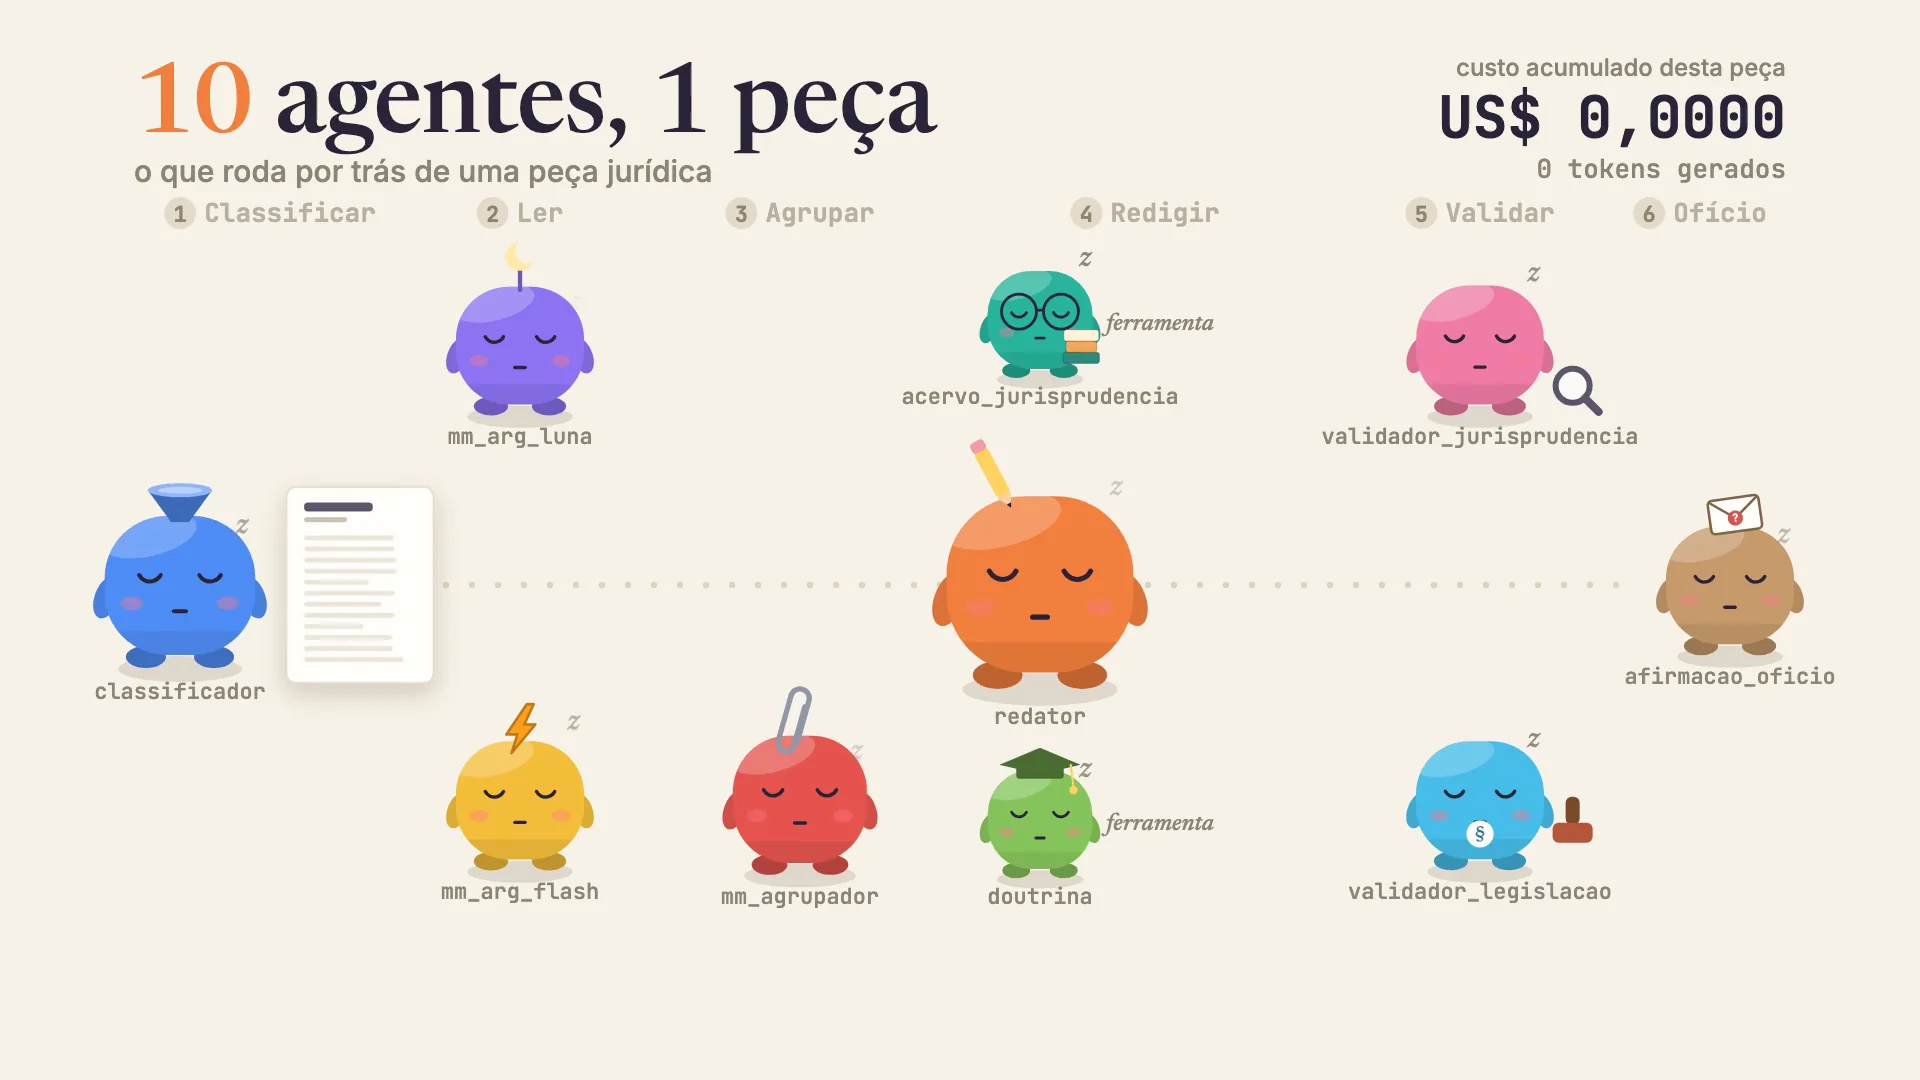
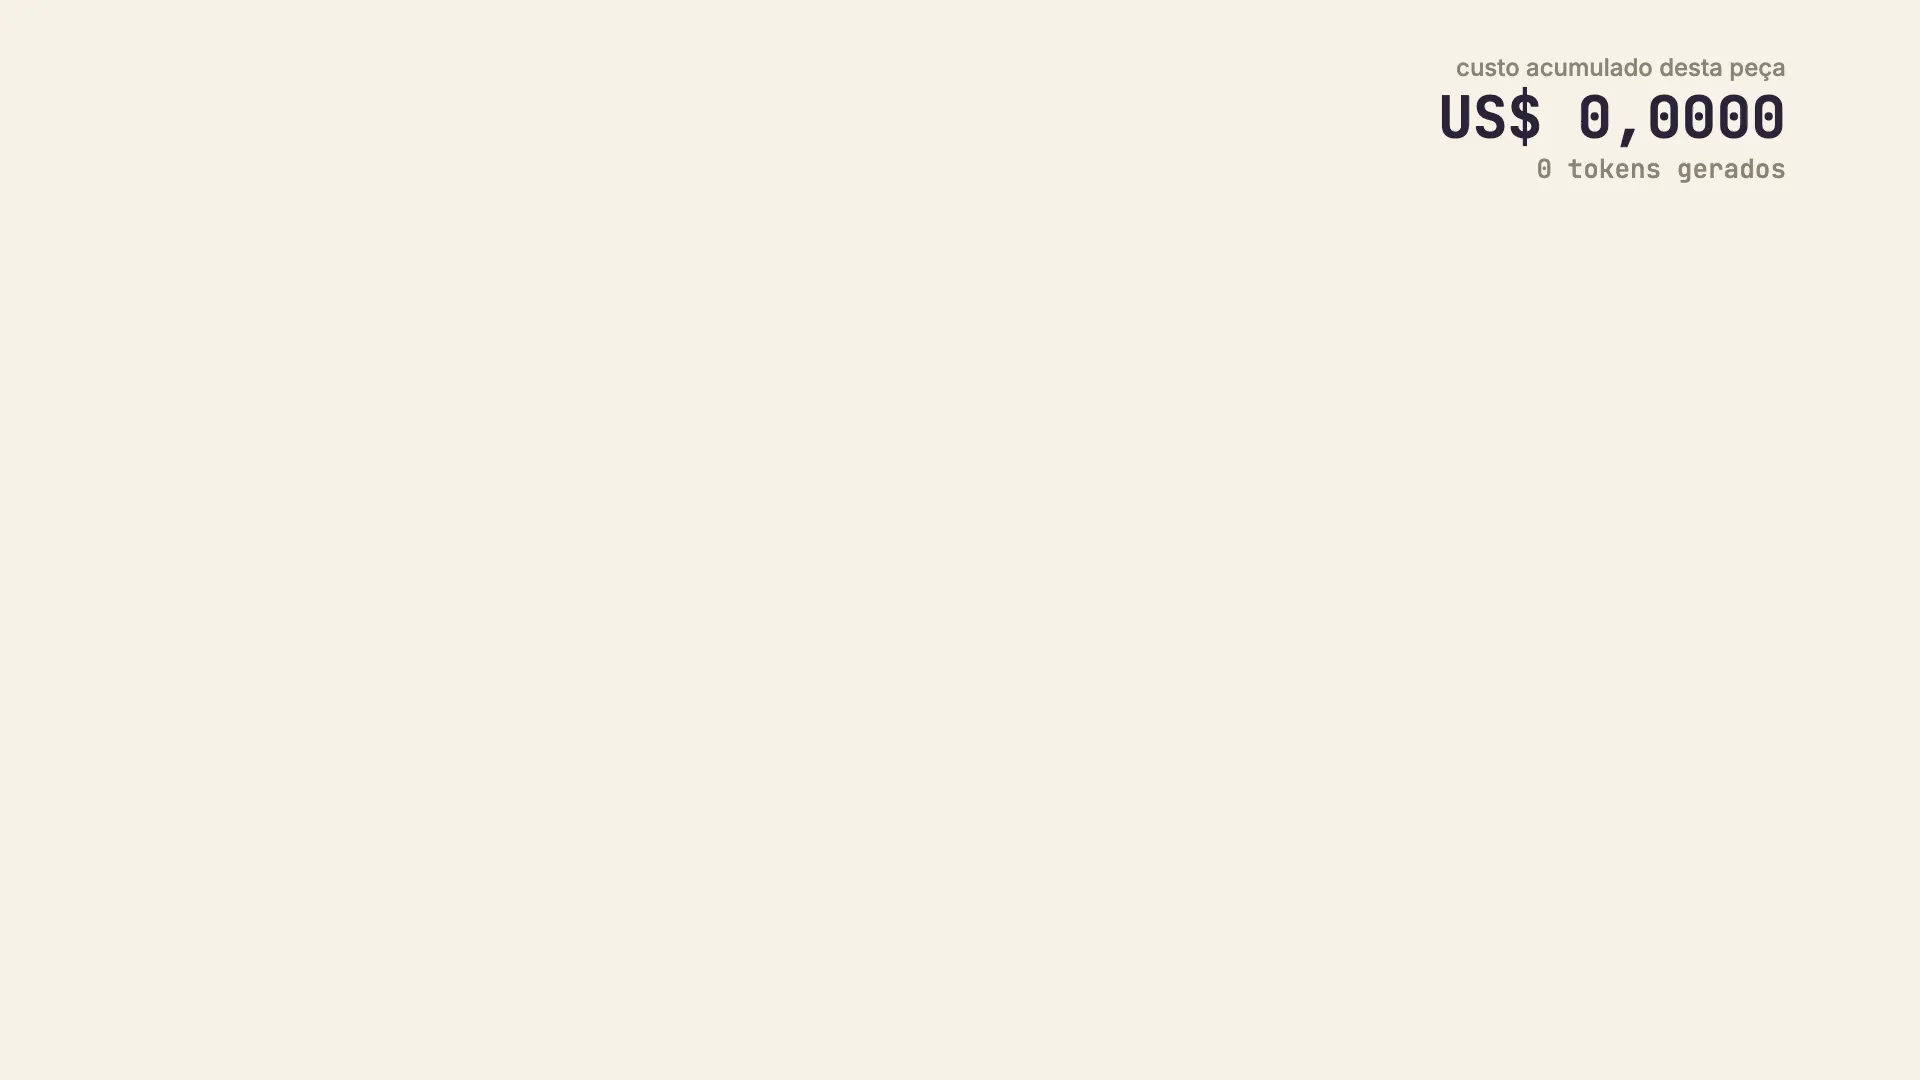
Aula 4: crítica, rodadas 2 e 3

diff --git a/decks/curso-ia-aula4/deck.html b/decks/curso-ia-aula4/deck.html
@@ -391,7 +391,8 @@
     <p class="rodape b-aviso">A co.juris não fala em nome da PGE-MS.</p>
   </section>
 
-  <!-- harness (demonstração, S.T.A.R. do bloco): o vídeo da Tarefa 6A (claude_video_maker, agentes-peca-2), 40 s. -->
+  <!-- harness (demonstração, S.T.A.R. do bloco): o vídeo da Tarefa 6A (claude_video_maker, agentes-peca-2), 40 s. A capa
+       é o quadro 0 do clipe: a de 2,5 s (cena montada) aparecia na viagem e sumia quando o clipe começava. -->
   <section data-slide="harness" data-arquetipo="demonstracao" class="noite">
     <p class="rotulo">Harness</p>
     <h2 class="manchete">Dez agentes, uma peça</h2>
@@ -488,7 +489,7 @@
     <ol class="etapas">
       <li><b>jun./26</b>Copilot cobra por consumo</li>
       <li><b>jul./26</b>Claude Pro perde o modelo de ponta</li>
-      <li class="agora"><b>nov./26</b>ChatGPT Go “pode incluir anúncios”</li>
+      <li class="agora"><b>nov./26</b>ChatGPT Go <span style="white-space: nowrap">“pode incluir anúncios”</span></li>
     </ol>
     <p class="tempo-leg">A própria Anthropic lista isso como risco.</p>
   </section>
@@ -894,7 +895,8 @@ SLIDES.push(
 // Bloco E, futuro e fecho (16 min): capítulo, o ritmo medido, os dois cenários, os sinais, A10, A11, os quatro verbos e
 // o fecho. Fatos só do briefing.md e da ficha G (docs/pesquisa/dia2-geopolitica-ia.md, 1.6 e seção 3).
 SLIDES.push(
-  {id: 'futuro-cap', titulo: 'E em 2030?', bloco: 'futuro', andamento: 'capitulo', linhaDia: false,
+  // passos 3,0 s: a viagem de capítulo (2,2 s) só fecha a base da trilha e o pad direito 0,7 s depois do pouso
+  {id: 'futuro-cap', titulo: 'E em 2030?', bloco: 'futuro', andamento: 'capitulo', linhaDia: false, passos: [3.0],
    notas: {diga: 'Último bloco: e em 2030? Não vou fazer previsão de consultoria. Vou mostrar o ritmo medido, dois cenários e sinais com data, para vocês acompanharem.',
      faca: ['deixar a pergunta na tela um instante antes de falar'],
      transicao: 'Primeiro, o ritmo.'}},
@@ -1194,7 +1196,8 @@ CENAS.chips = (() => {
 })();
 CENAS['aberto-seguro'] = cartoes('aberto-seguro');
 
-// quatro-meses: o "4" sobe, "meses" chega ao lado, a caneta dourada sublinha o número; a legenda depois.
+// quatro-meses: o "4" sobe, "meses" chega ao lado; a legenda depois. Sem o sublinhado: o "4" já é o dourado da
+// parada, e a caneta clara embaixo do dourado de texto fazia dois dourados.
 CENAS['quatro-meses'] = (() => {
   const sec = m.secao('quatro-meses'), q = (s) => sec.querySelector(s);
   const dN = q('.d-num-n'), dU = q('.d-num-u'), dLeg = q('.d-num-leg');
@@ -1203,7 +1206,6 @@ CENAS['quatro-meses'] = (() => {
     titulo(sec, x, c);
     surgir(dN, molaAR(x - 0.1), {dy: 50});
     surgir(dU, molaAR(x - 0.35), {dx: -30, dy: 0});
-    anotar(dN, saida(faixa(x, 0.7, 1.2)), {forma: 'sublinhado', semente: 4});
     revelar(dLeg, molaAR(x - 0.9));
     fim(sec, x, 1.4);
   };

diff --git a/decks/curso-ia-aula4/fonte/d-geopolitica.cenas.js b/decks/curso-ia-aula4/fonte/d-geopolitica.cenas.js
@@ -11,7 +11,8 @@ CENAS.chips = (() => {
 })();
 CENAS['aberto-seguro'] = cartoes('aberto-seguro');
 
-// quatro-meses: o "4" sobe, "meses" chega ao lado, a caneta dourada sublinha o número; a legenda depois.
+// quatro-meses: o "4" sobe, "meses" chega ao lado; a legenda depois. Sem o sublinhado: o "4" já é o dourado da
+// parada, e a caneta clara embaixo do dourado de texto fazia dois dourados.
 CENAS['quatro-meses'] = (() => {
   const sec = m.secao('quatro-meses'), q = (s) => sec.querySelector(s);
   const dN = q('.d-num-n'), dU = q('.d-num-u'), dLeg = q('.d-num-leg');
@@ -20,7 +21,6 @@ CENAS['quatro-meses'] = (() => {
     titulo(sec, x, c);
     surgir(dN, molaAR(x - 0.1), {dy: 50});
     surgir(dU, molaAR(x - 0.35), {dx: -30, dy: 0});
-    anotar(dN, saida(faixa(x, 0.7, 1.2)), {forma: 'sublinhado', semente: 4});
     revelar(dLeg, molaAR(x - 0.9));
     fim(sec, x, 1.4);
   };

diff --git a/decks/curso-ia-aula4/fonte/e-futuro.slides.js b/decks/curso-ia-aula4/fonte/e-futuro.slides.js
@@ -1,7 +1,8 @@
 // Bloco E, futuro e fecho (16 min): capítulo, o ritmo medido, os dois cenários, os sinais, A10, A11, os quatro verbos e
 // o fecho. Fatos só do briefing.md e da ficha G (docs/pesquisa/dia2-geopolitica-ia.md, 1.6 e seção 3).
 SLIDES.push(
-  {id: 'futuro-cap', titulo: 'E em 2030?', bloco: 'futuro', andamento: 'capitulo', linhaDia: false,
+  // passos 3,0 s: a viagem de capítulo (2,2 s) só fecha a base da trilha e o pad direito 0,7 s depois do pouso
+  {id: 'futuro-cap', titulo: 'E em 2030?', bloco: 'futuro', andamento: 'capitulo', linhaDia: false, passos: [3.0],
    notas: {diga: 'Último bloco: e em 2030? Não vou fazer previsão de consultoria. Vou mostrar o ritmo medido, dois cenários e sinais com data, para vocês acompanharem.',
      faca: ['deixar a pergunta na tela um instante antes de falar'],
      transicao: 'Primeiro, o ritmo.'}},

diff --git a/decks/curso-ia-aula4/fonte/b-harness.html b/decks/curso-ia-aula4/fonte/b-harness.html
@@ -10,7 +10,8 @@
     <p class="rodape b-aviso">A co.juris não fala em nome da PGE-MS.</p>
   </section>
 
-  <!-- harness (demonstração, S.T.A.R. do bloco): o vídeo da Tarefa 6A (claude_video_maker, agentes-peca-2), 40 s. -->
+  <!-- harness (demonstração, S.T.A.R. do bloco): o vídeo da Tarefa 6A (claude_video_maker, agentes-peca-2), 40 s. A capa
+       é o quadro 0 do clipe: a de 2,5 s (cena montada) aparecia na viagem e sumia quando o clipe começava. -->
   <section data-slide="harness" data-arquetipo="demonstracao" class="noite">
     <p class="rotulo">Harness</p>
     <h2 class="manchete">Dez agentes, uma peça</h2>

diff --git a/decks/curso-ia-aula4/fonte/c-conta.html b/decks/curso-ia-aula4/fonte/c-conta.html
@@ -61,7 +61,7 @@
     <ol class="etapas">
       <li><b>jun./26</b>Copilot cobra por consumo</li>
       <li><b>jul./26</b>Claude Pro perde o modelo de ponta</li>
-      <li class="agora"><b>nov./26</b>ChatGPT Go “pode incluir anúncios”</li>
+      <li class="agora"><b>nov./26</b>ChatGPT Go <span style="white-space: nowrap">“pode incluir anúncios”</span></li>
     </ol>
     <p class="tempo-leg">A própria Anthropic lista isso como risco.</p>
   </section>
